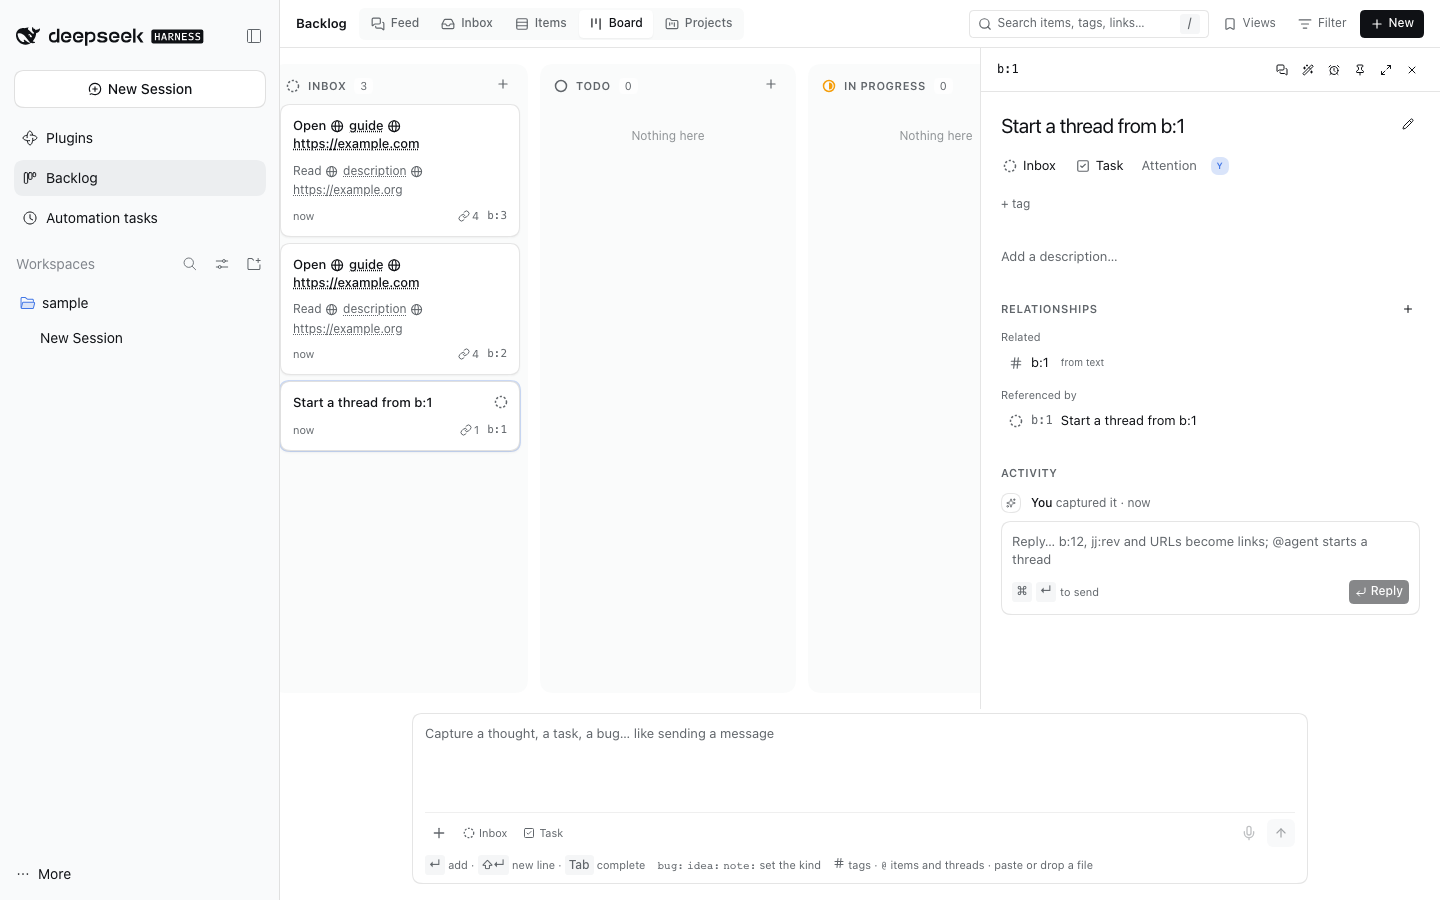
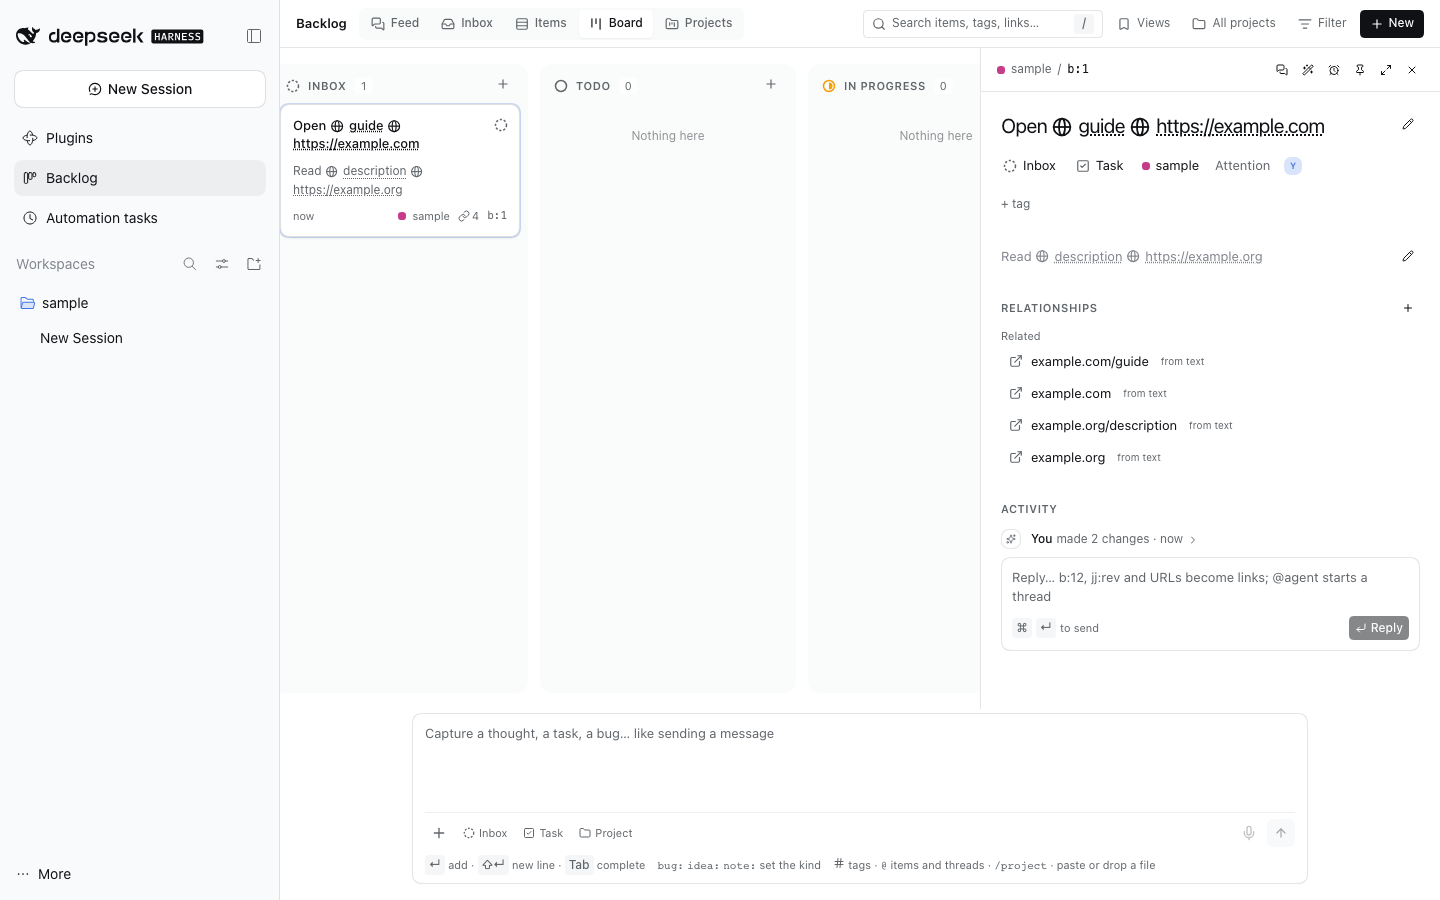
feat(backlog): name the item project on board cards and rows
The feed, Inbox, Items table and detail breadcrumb already said which project an
item belongs to, but a board card only carried its id, so a mixed board hid the
one fact that tells two same-looking tasks apart. One ProjectLabel renders the
dot, the short name and the full path as a tooltip, and every card and row now
uses it.

Verifies through the existing right-click journey: after assigning a registered
project, the board card contains that project name. The board screenshot is
recaptured from a scratch DSH.

Closes b:211

diff --git a/tooling/dshx/e2e/support/plugin-journeys/backlog.steps.ts b/tooling/dshx/e2e/support/plugin-journeys/backlog.steps.ts
@@ -303,6 +303,25 @@ When('backlog item b:{int} is assigned to a registered project from its feed con
   await page.keyboard.press('Escape')
 })
 
+Then('the board card for b:{int} names the project it is filed under', async ({ page }: { page: Page }, id: number) => {
+  await recordAssertion(page, 'backlog-board-project-label', async () => {
+    await page.getByRole('textbox', { name: 'Search backlog', exact: true }).fill('')
+    await page.getByRole('button', { name: 'Board', exact: true }).click()
+    const card = page.getByRole('article', { name: `Card b:${String(id)}`, exact: true })
+    await expect(card).toBeVisible()
+    await card.click({ button: 'right' })
+    await contextMenu(page).getByRole('menuitem', { name: 'Project', exact: true }).hover()
+    const chosen = page.getByRole('menu').last().getByRole('menuitemradio', { checked: true })
+    await expect(chosen).toHaveCount(1)
+    const projectName = (await chosen.innerText()).trim()
+    await page.keyboard.press('Escape')
+    await page.keyboard.press('Escape')
+    await expect(page.getByRole('menu')).toHaveCount(0)
+    expect(projectName).not.toBe('No project')
+    await expect(card).toContainText(projectName)
+  })
+})
+
 Then('the start thread dialog offers the account model and the Host default folder', async ({ page }: { page: Page }) => {
   await recordAssertion(page, 'backlog-start-thread-dialog', async () => {
     await expect(startThreadDialog(page)).toBeVisible()

diff --git a/plugins/@dshfiles/backlog/src/item-glyphs.tsx b/plugins/@dshfiles/backlog/src/item-glyphs.tsx
@@ -125,6 +125,14 @@ const ProjectDot = (props: { readonly project: string; readonly className?: stri
   <span aria-hidden className={cn('dshx:inline-block dshx:size-2 dshx:shrink-0 dshx:rounded-full', projectTone(props.project), props.className)} />
 )
 
+/** A project as its dot and short name; the full path stays in the tooltip. */
+const ProjectLabel = (props: { readonly project: string; readonly className?: string }): JSX.Element => (
+  <span title={props.project} className={cn('dshx:flex dshx:min-w-0 dshx:items-center dshx:gap-1.5', props.className)}>
+    <ProjectDot project={props.project} />
+    <span className="dshx:truncate">{projectName(props.project)}</span>
+  </span>
+)
+
 const actorName = (id: string | undefined): string => {
   if (id === undefined || id === 'user') return 'You'
   if (id === 'system') return 'Automatic'
@@ -201,6 +209,7 @@ export class ItemGlyphs {
   static readonly KindIcon = KindIcon
   static readonly AttentionBadge = AttentionBadge
   static readonly ProjectDot = ProjectDot
+  static readonly ProjectLabel = ProjectLabel
   static readonly ActorAvatar = ActorAvatar
   static readonly ActorStack = ActorStack
   static readonly projectName = projectName

diff --git a/plugins/@dshfiles/backlog/src/items-view.tsx b/plugins/@dshfiles/backlog/src/items-view.tsx
@@ -218,16 +218,7 @@ const Row = (props: {
           {ItemGlyphs.kindLabels[item.kind]}
         </span>
         <span className={cn('dshx:flex dshx:min-w-0 dshx:items-center dshx:gap-1.5', wideOnly)}>
-          {item.project === null ? (
-            <span className="dshx:text-muted-foreground/60">—</span>
-          ) : (
-            <>
-              <ItemGlyphs.ProjectDot project={item.project} />
-              <span className="dshx:truncate" title={item.project}>
-                {ItemGlyphs.projectName(item.project)}
-              </span>
-            </>
-          )}
+          {item.project === null ? <span className="dshx:text-muted-foreground/60">—</span> : <ItemGlyphs.ProjectLabel project={item.project} />}
         </span>
         <span className={roomyOnly}>
           <ItemGlyphs.ActorStack actorIds={item.actors.map(actor => actor.id)} max={2} />

diff --git a/plugins/@dshfiles/backlog/src/board-view.tsx b/plugins/@dshfiles/backlog/src/board-view.tsx
@@ -70,6 +70,7 @@ const CardFace = (props: { readonly item: BacklogSummaryView; readonly onPickSta
       <div className="dshx:flex dshx:items-center dshx:gap-2">
         <StateLine item={item} />
         <span className="dshx:ml-auto dshx:flex dshx:items-center dshx:gap-2 dshx:text-[11px] dshx:text-muted-foreground">
+          {item.project === null ? null : <ItemGlyphs.ProjectLabel project={item.project} className="dshx:max-w-24" />}
           {item.links.length === 0 ? null : (
             <span className="dshx:flex dshx:items-center dshx:gap-0.5">
               <LinkIcon aria-hidden className="dshx:size-3" />

diff --git a/plugins/@dshfiles/backlog/src/search-results.tsx b/plugins/@dshfiles/backlog/src/search-results.tsx
@@ -110,8 +110,7 @@ export const SearchResults = (props: {
                 <span className="dshx:ml-auto dshx:flex dshx:shrink-0 dshx:items-center dshx:gap-1.5 dshx:text-[11px] dshx:text-muted-foreground">
                   {item.project === null ? null : (
                     <>
-                      <ItemGlyphs.ProjectDot project={item.project} />
-                      {ItemGlyphs.projectName(item.project)} ·
+                      <ItemGlyphs.ProjectLabel project={item.project} />·
                     </>
                   )}
                   {ItemGlyphs.ago(item.lastActivityAt)}

diff --git a/plugins/@dshfiles/backlog/src/item-peek.tsx b/plugins/@dshfiles/backlog/src/item-peek.tsx
@@ -686,10 +686,7 @@ const PeekBody = (props: {
         <nav aria-label="Breadcrumb" className="dshx:flex dshx:min-w-0 dshx:items-center dshx:gap-1.5 dshx:text-xs dshx:text-muted-foreground">
           {item.project === null ? null : (
             <>
-              <ItemGlyphs.ProjectDot project={item.project} />
-              <span className="dshx:truncate" title={item.project}>
-                {ItemGlyphs.projectName(item.project)}
-              </span>
+              <ItemGlyphs.ProjectLabel project={item.project} />
               <span>/</span>
             </>
           )}

diff --git a/plugins/@dshfiles/backlog/src/inbox-view.tsx b/plugins/@dshfiles/backlog/src/inbox-view.tsx
@@ -233,8 +233,7 @@ export const InboxView = (props: {
                     ))}
                     {item.project === null ? null : (
                       <>
-                        <ItemGlyphs.ProjectDot project={item.project} />
-                        <span className="dshx:truncate">{ItemGlyphs.projectName(item.project)}</span>·
+                        <ItemGlyphs.ProjectLabel project={item.project} />·
                       </>
                     )}
                     <span className="dshx:font-mono!">b:{item.id}</span>· {ItemGlyphs.ago(item.lastActivityAt)}

diff --git a/plugins/@dshfiles/backlog/src/feed-view.tsx b/plugins/@dshfiles/backlog/src/feed-view.tsx
@@ -110,8 +110,7 @@ const FeedEntry = (props: {
             )}
             {item.project === null ? null : (
               <Chip>
-                <ItemGlyphs.ProjectDot project={item.project} />
-                {ItemGlyphs.projectName(item.project)}
+                <ItemGlyphs.ProjectLabel project={item.project} />
               </Chip>
             )}
             {item.tags.map(tag => (

diff --git a/plugins/@dshfiles/backlog/README.md b/plugins/@dshfiles/backlog/README.md
@@ -67,8 +67,9 @@ Freshness is derived on read and never stored:
 
 Dormant and archived items stay in search, filters and backlinks. Any edit, move, link or comment makes
 an item fresh again. The list groups the feed like a chat history (Pinned, Today, Yesterday, This week,
-Earlier). The board shows the same items by status; a click opens the item's detail beside the board,
-a drag moves the card to another column, and its status ring changes status in place.
+Earlier). The board shows the same items by status; each card names its project beside the item id,
+a click opens the item's detail beside the board, a drag moves the card to another column, and its
+status ring changes status in place.
 Status, kind and drops update the view before the Host answers. While you type, chips under the capture
 box show the kind, tags and links triage will derive.
 
@@ -212,7 +213,8 @@ project`, or to everything; it persists like the status chips and presets the ca
 project. Candidates are the projects items already name plus every registered workspace, with isolated
 thread workspaces (`…/threads/thread-…`) left out, so the picker offers `dshfiles` and not the checkout a
 thread runs in. The same combobox sits on the item's details line and in every right-click menu's
-**Project** submenu.
+**Project** submenu, and every feed entry, Inbox row, Items row, board card and search result labels the
+item's project, with the full path in its tooltip.
 
 ## Inbox and the rest of the ADE
 
